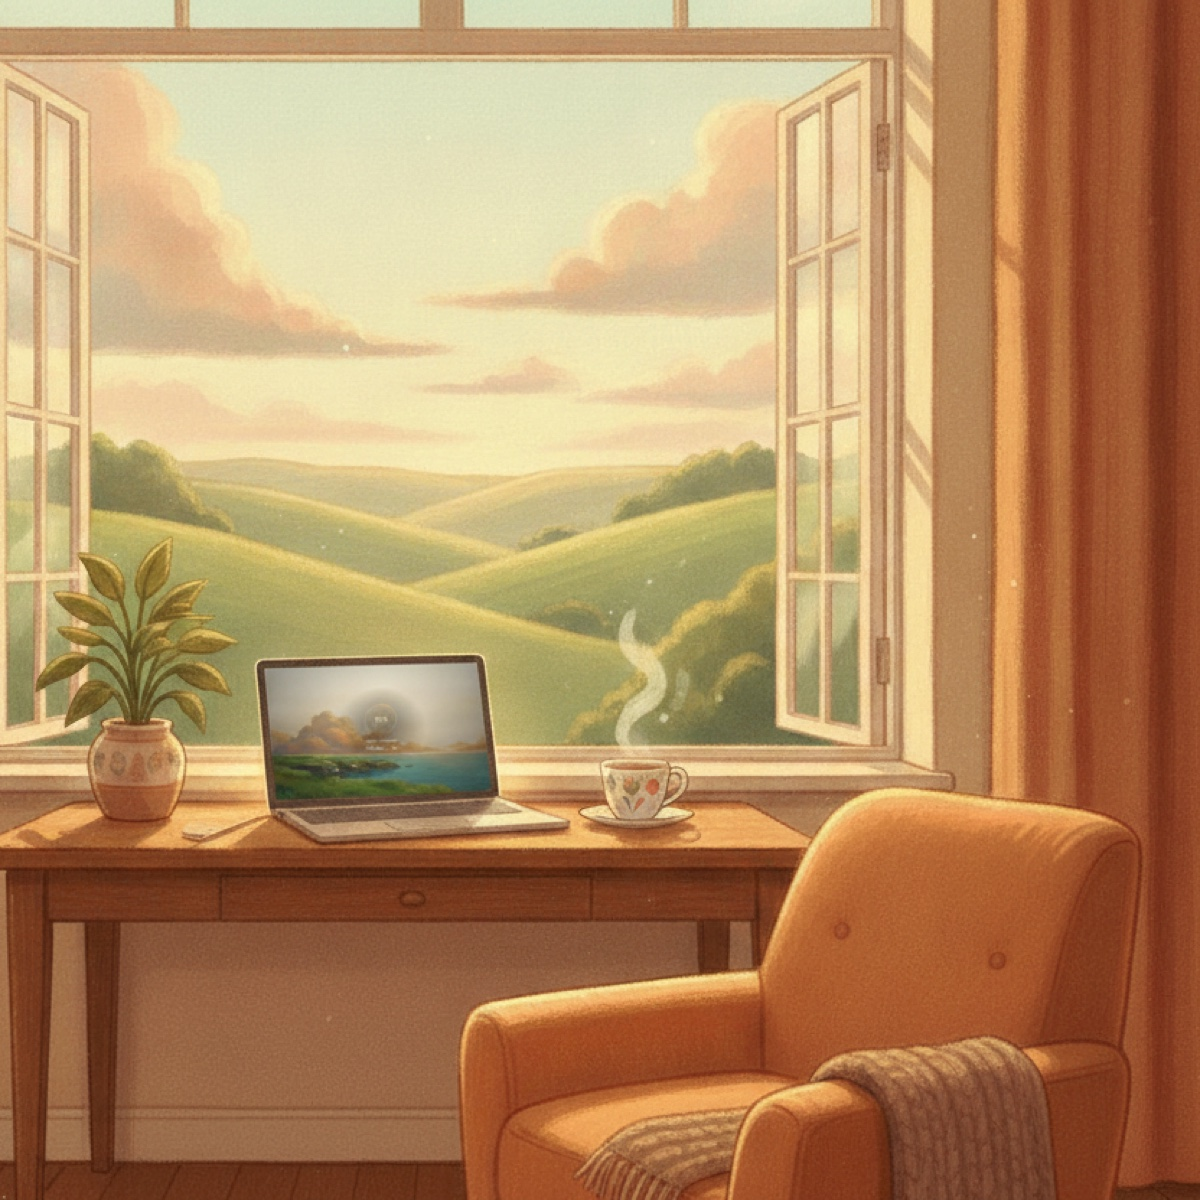
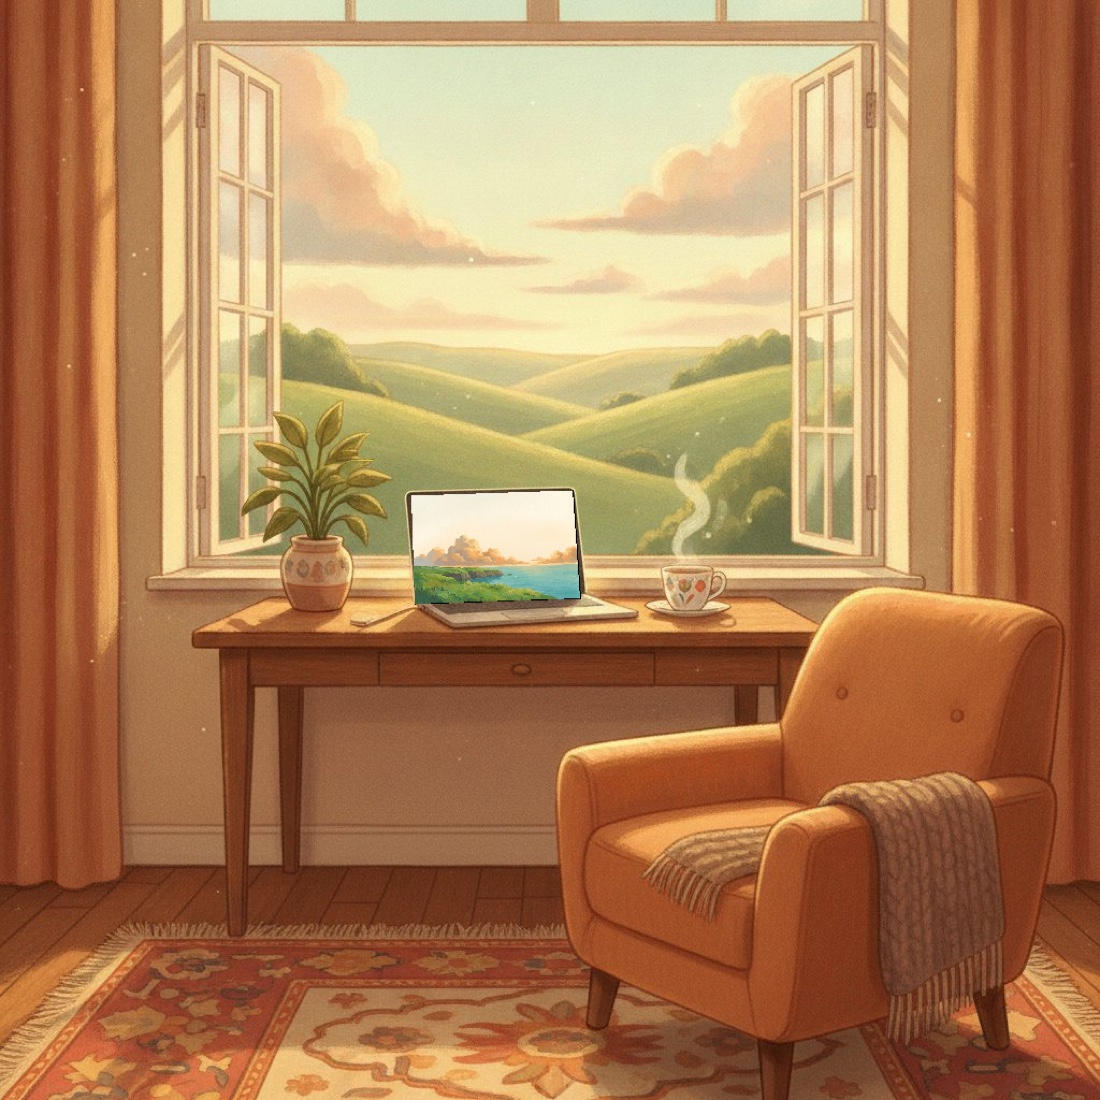
Hero: square original with real-coast painted only on laptop screen

diff --git a/index.html b/index.html
@@ -7,7 +7,7 @@
 <meta name="description" content="Eye Rest reminds you to rest your eyes with the 20-20-20 rule, and turns every break into a hand-painted scene you'll actually look forward to. Free to start, $14.99 once, macOS.">
 <meta property="og:title" content="Eye Rest, the eye-rest app you'll actually look forward to">
 <meta property="og:description" content="20-20-20 breaks that fade your Mac into a hand-painted scene. Free to start, macOS.">
-<meta property="og:image" content="img/hero-coast-gem.jpg">
+<meta property="og:image" content="img/hero-cozy-coast.jpg">
 <meta property="og:type" content="website">
 <meta name="theme-color" content="#f5efe1">
 <link rel="icon" href="img/icon.jpg">
@@ -65,13 +65,13 @@ nav .wrap{display:flex;align-items:center;justify-content:space-between;height:6
   min-height:calc(100dvh - 68px);padding-top:clamp(24px,4vw,40px);padding-bottom:clamp(40px,6vw,72px)}
 .hero h1{margin-bottom:.2em}
 .hero .lead{margin:1.4rem 0 2rem;max-width:36ch}
-.hero-art{border-radius:22px;overflow:hidden;box-shadow:var(--shadow);border:1px solid var(--line-2);aspect-ratio:1344/768}
+.hero-art{border-radius:22px;overflow:hidden;box-shadow:var(--shadow);border:1px solid var(--line-2);aspect-ratio:1/1}
 .hero-art img{width:100%;height:100%;object-fit:cover;display:block}
 .hero .note{font-size:.9rem;color:var(--faint);margin-top:1.1rem}
 @media (max-width:860px){
   .hero .wrap{grid-template-columns:1fr;min-height:0;text-align:center;padding-top:48px}
   .hero .cta-row{justify-content:center}.hero .lead{margin-inline:auto}
-  .hero-art{max-width:520px;margin:6px auto 0;aspect-ratio:1344/768}
+  .hero-art{max-width:520px;margin:6px auto 0;aspect-ratio:1/1}
 }
 /* soft reveal */
 .reveal{transition:opacity .9s var(--ease),transform .9s var(--ease)}
@@ -142,7 +142,7 @@ footer .wrap{display:flex;justify-content:space-between;flex-wrap:wrap;gap:12px;
     </div>
     <p class="note">macOS 14+ . Free to start . Pro is $14.99 once, no subscription</p>
   </div>
-  <div class="hero-art"><img src="img/hero-coast-gem.jpg" width="1344" height="768" alt="A cozy sunlit room: a Mac on a wooden desk by an open window over green hills, its screen showing an Eye Rest break, a painted meadow scene"></div>
+  <div class="hero-art"><img src="img/hero-cozy-coast.jpg" width="1024" height="1024" alt="A cozy sunlit room: a Mac on a wooden desk by an open window over green hills, its screen showing an Eye Rest break, a painted meadow scene"></div>
 </div></header>
 
 <section class="alt"><div class="wrap">
